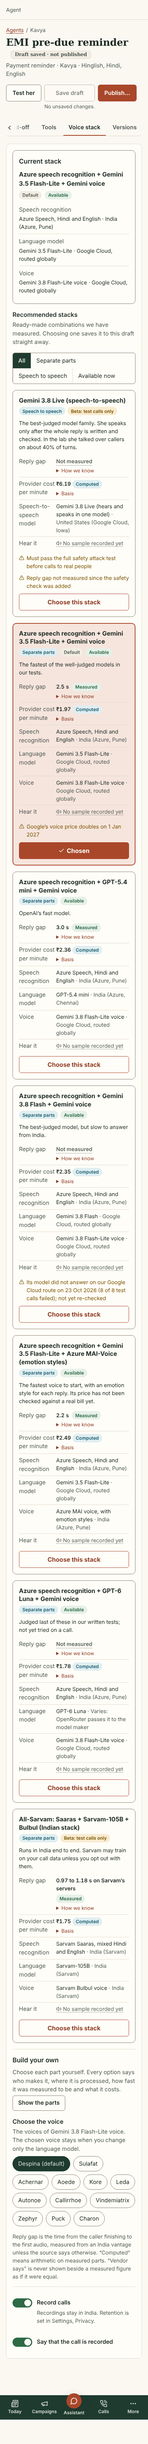
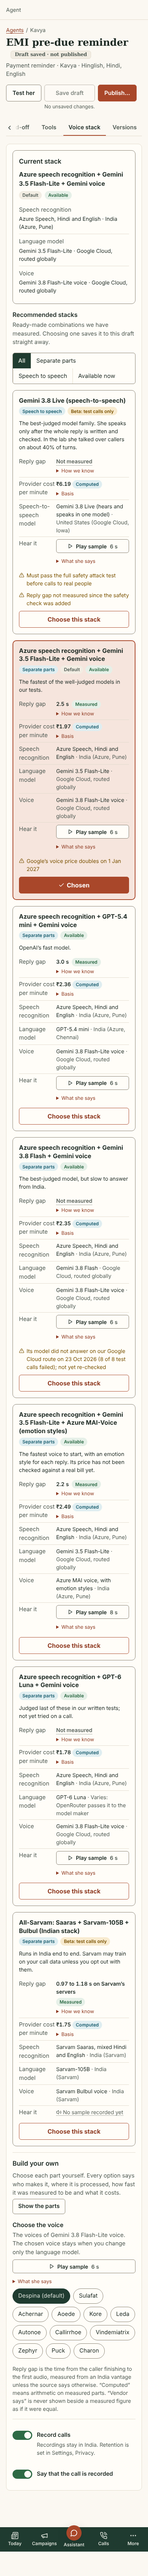
Web: voice samples with several renditions for Safari, and a plain line when none can play; web typecheck fixed
The integrator's two follow-ups on 680c5e6.

1. Safari. A manifest entry may list renditions in "files": [{src, type}], best first. "file" is still read for older
   entries.
   - The player is an <audio preload="none"> with one <source> per rendition, driven by the same aria-pressed
     Play/Pause button.
   - A browser whose canPlayType rules out every rendition shows "This browser can't play the sample" before any tap,
     and so does one where the last <source> fails.
   - Types are inferred from the extension when not given: ogg/opus is audio/ogg; codecs=opus, mp3 is audio/mpeg,
     m4a is audio/mp4, aac is audio/aac, wav is audio/wav.
   - server/app.ts serves .m4a as audio/mp4 and .aac as audio/aac (two MIME entries), ready for the AAC rendition the
     voice builder will add.
   - Tests:
     - The unit test covers multi-source parsing and that Safari can play the AAC rendition while an Ogg-only entry
       cannot.
     - The flow "Voice samples: …" has a first rendition no browser can play and checks the player falls through to
       the second.
     - The same flow checks a canPlayType of '' everywhere shows the line and no button.
     - The flow now restores whatever manifest ships, instead of asserting {}. It failed on the old player and passes
       now.
2. Looked at the stack cards with a real sample playing, at 1440 and 390: gemini-3.8-live-Despina.ogg plays, the button
   reads "Pause 6 s" and the Hindi text shows under "What she says". Shots:
[…]

Changed region(s): [[0.0308, 0.0, 0.9231, 0.9984], [0.8615, 0.9672, 0.9231, 0.9984]]

diff --git a/product/web/src/samples.ts b/product/web/src/samples.ts
@@ -3,26 +3,45 @@
 // Ogg/Opus clips). A stack with no entry (or an
 // entry that does not hold up) shows "No sample recorded yet"; nothing is guessed.
 
-export interface Sample { stackId: string; src: string; durationS: number; text: string; recorded: string }
+export interface SampleSource { src: string; type: string }
+export interface Sample { stackId: string; sources: SampleSource[]; durationS: number; text: string; recorded: string }
 
-const FILE = /^[A-Za-z0-9][A-Za-z0-9._-]{0,120}\.(ogg|opus|mp3|wav)$/;   // a plain file name in /samples/: no path, an audio format
+const FILE = /^[A-Za-z0-9][A-Za-z0-9._-]{0,120}\.(ogg|opus|mp3|m4a|aac|wav)$/;   // a plain file name in /samples/: no path, an audio format
 const WHEN = /^\d{4}-\d{2}-\d{2}(T\d{2}:\d{2}(:\d{2})?(\.\d+)?Z?)?$/;   // a date, or the renderer's UTC timestamp
+// The type the browser is asked about. Ogg/Opus has gaps on older Safari; an AAC or MP3 rendition beside it covers Macs.
+const TYPE: Record<string, string> = { ogg: 'audio/ogg; codecs=opus', opus: 'audio/ogg; codecs=opus', mp3: 'audio/mpeg', m4a: 'audio/mp4', aac: 'audio/aac', wav: 'audio/wav' };
 
-/** The manifest's entries that are safe and complete, keyed by stack id. The recording date versions the URL, because the
- *  server caches static files for a year: a re-recorded clip gets a new address. */
+/** The manifest's entries that are safe and complete, keyed by stack id. An entry lists its renditions in "files"
+ *  ([{src, type}], best first) or one "file" (kept for older manifests). The recording time versions each address, because
+ *  the server caches static files for a year: a re-recorded clip gets a new address. */
 export function parseSamples(raw: unknown): Record<string, Sample> {
   const out: Record<string, Sample> = {};
   if (!raw || typeof raw !== 'object' || Array.isArray(raw)) return out;
   for (const [stackId, v] of Object.entries(raw as Record<string, unknown>)) {
     if (!v || typeof v !== 'object') continue;
     const e = v as Record<string, unknown>;
-    const file = typeof e.file === 'string' ? e.file : '', text = typeof e.text === 'string' ? e.text.trim() : '', recorded = typeof e.recordedAt === 'string' ? e.recordedAt : typeof e.recorded === 'string' ? e.recorded : '';
+    const text = typeof e.text === 'string' ? e.text.trim() : '', recorded = typeof e.recordedAt === 'string' ? e.recordedAt : typeof e.recorded === 'string' ? e.recorded : '';
     const durationS = typeof e.durationS === 'number' ? e.durationS : typeof e.duration === 'number' ? e.duration : NaN;
-    if (!FILE.test(file) || !text || !WHEN.test(recorded) || !(durationS > 0 && durationS < 600)) continue;
-    out[stackId] = { stackId, src: `/samples/${file}?v=${encodeURIComponent(recorded)}`, durationS, text, recorded: recorded.slice(0, 10) };
+    if (!text || !WHEN.test(recorded) || !(durationS > 0 && durationS < 600)) continue;
+    const listed = Array.isArray(e.files) ? e.files : typeof e.file === 'string' ? [{ src: e.file }] : [];
+    const sources: SampleSource[] = [];
+    for (const f of listed) {
+      if (!f || typeof f !== 'object') continue;
+      const r = f as Record<string, unknown>;
+      const name = typeof r.src === 'string' ? r.src.replace(/^\/samples\//, '') : typeof r.file === 'string' ? r.file : '';
+      if (!FILE.test(name)) continue;
+      const ext = name.split('.').pop()!.toLowerCase();
+      const type = typeof r.type === 'string' && /^audio\/[a-z0-9.+-]+(;\s*codecs="?[a-z0-9.,\s-]+"?)?$/i.test(r.type) ? r.type : TYPE[ext];
+      sources.push({ src: `/samples/${name}?v=${encodeURIComponent(recorded)}`, type });
+    }
+    if (!sources.length) continue;
+    out[stackId] = { stackId, sources, durationS, text, recorded: recorded.slice(0, 10) };
   }
   return out;
 }
+
+/** Whether this browser says it may play any of the renditions ("maybe" counts; only "" rules a type out). */
+export const playableIn = (sources: SampleSource[], canPlay: (type: string) => string) => sources.some(x => canPlay(x.type) !== '');
 
 /** The manifest, read fresh (a query string skips the year-long static cache). A missing or broken manifest means no samples. */
 export async function loadSamples(): Promise<Record<string, Sample>> {

diff --git a/product/web/src/stack-picker.tsx b/product/web/src/stack-picker.tsx
@@ -2,7 +2,7 @@
 // is marked "recommended". Every figure carries its grade and source; a missing price or latency says so instead of showing 0.
 import { useEffect, useMemo, useRef, useState } from 'react';
 import { AlertTriangle, Check, Pause, Play, Volume2 } from 'lucide-react';
-import { loadSamples, type Sample } from './samples.ts';
+import { loadSamples, playableIn, type Sample } from './samples.ts';
 import { STACKS } from '../../shared/stacks.ts';
 import * as api from './api.ts';
 import { Async, Btn, Chip, Figure, NotMeasured, Segmented } from './ui.tsx';
@@ -256,25 +256,27 @@ let playing: HTMLAudioElement | null = null;
 /** A sample clip: one button that plays and pauses it (its state is announced), the length, and what she says, in words. */
 function SamplePlayer({ sample, label }: { sample: Sample; label: string }) {
   const audio = useRef<HTMLAudioElement | null>(null);
-  const [on, setOn] = useState(false); const [failed, setFailed] = useState(false);
+  const [on, setOn] = useState(false);
+  // Known before any tap: a browser that rules out every rendition says so instead of a button that does nothing.
+  const [cant, setCant] = useState(() => typeof document !== 'undefined' && !playableIn(sample.sources, t => document.createElement('audio').canPlayType(t)));
   useEffect(() => () => { audio.current?.pause(); }, []);
   const toggle = () => {
-    let a = audio.current;
-    if (!a) {
-      a = audio.current = new Audio(sample.src);
-      a.onended = a.onpause = () => setOn(false); a.onplay = () => setOn(true); a.onerror = () => { setOn(false); setFailed(true); };
-    }
+    const a = audio.current; if (!a) return;
     if (on) { a.pause(); return; }
     if (playing && playing !== a) playing.pause();
-    playing = a; void a.play().catch(() => setFailed(true));
+    playing = a; void a.play().catch(() => setCant(true));
   };
   const secs = Math.round(sample.durationS);
   return (
     <div className="sample stack-s">
-      <button type="button" className="btn btn-sm" aria-pressed={on} aria-label={`${on ? 'Pause' : 'Play'} the sample of ${label}, ${secs} seconds`} onClick={toggle}>
-        {on ? <Pause size={14} aria-hidden /> : <Play size={14} aria-hidden />}<span>{on ? 'Pause' : 'Play sample'}</span><span className="muted tnum">{secs} s</span>
-      </button>
-      {failed && <span className="small hint-bad" role="status">The sample could not be played in this browser.</span>}
+      {/* One <source> per rendition, best first: the browser takes the first it can play. The last one failing means none could. */}
+      <audio ref={audio} preload="none" onPlay={() => setOn(true)} onPause={() => setOn(false)} onEnded={() => setOn(false)}>
+        {sample.sources.map((x, i) => <source key={x.src} src={x.src} type={x.type} onError={i === sample.sources.length - 1 ? () => { setOn(false); setCant(true); } : undefined} />)}
+      </audio>
+      {cant ? <p className="small muted" role="status"><Volume2 size={14} aria-hidden style={{ verticalAlign: '-2px' }} /> This browser can't play the sample.</p>
+        : <button type="button" className="btn btn-sm" aria-pressed={on} aria-label={`${on ? 'Pause' : 'Play'} the sample of ${label}, ${secs} seconds`} onClick={toggle}>
+          {on ? <Pause size={14} aria-hidden /> : <Play size={14} aria-hidden />}<span>{on ? 'Pause' : 'Play sample'}</span><span className="muted tnum">{secs} s</span>
+        </button>}
       <details className="how"><summary>What she says</summary><p lang="hi">{sample.text}</p><p className="small muted">Recorded {sample.recorded}.</p></details>
     </div>
   );

diff --git a/product/tests/web-walkthrough2.test.ts b/product/tests/web-walkthrough2.test.ts
@@ -44,10 +44,16 @@ test('voice samples: only complete, plain-file entries are used, and the recordi
   const ok = { file: 'v2-flashlite.mp3', durationS: 11.6, text: 'Namaste Asha ji, main Riya bol rahi hoon.', recorded: '2026-10-25' };
   const got = parseSamples({ 'v2-flashlite': ok, a: { ...ok, file: '../secret.mp3' }, b: { ...ok, file: 'x.exe' }, c: { ...ok, text: ' ' }, d: { ...ok, recorded: 'yesterday' }, e: { ...ok, durationS: 0 }, f: null });
   assert.deepEqual(Object.keys(got), ['v2-flashlite']);
-  assert.equal(got['v2-flashlite'].src, '/samples/v2-flashlite.mp3?v=2026-10-25');
+  assert.deepEqual(got['v2-flashlite'].sources, [{ src: '/samples/v2-flashlite.mp3?v=2026-10-25', type: 'audio/mpeg' }]);
   assert.equal(parseSamples({ s: { ...ok, durationS: undefined, duration: 9 } }).s.durationS, 9, '"duration" is read as well as "durationS"');
   const voice = parseSamples({ 'v2-mai': { file: 'mai-flash-teo.ogg', durationS: 8.2, text: 'Namaste.', recordedAt: '2026-10-24T09:15:02Z', combinationId: 'x', voice: 'teo', tts: 'mai' } });
-  assert.equal(voice['v2-mai'].src, '/samples/mai-flash-teo.ogg?v=2026-10-24T09%3A15%3A02Z', 'the renderer\'s shape (Ogg, recordedAt) is read');
+  assert.deepEqual(voice['v2-mai'].sources, [{ src: '/samples/mai-flash-teo.ogg?v=2026-10-24T09%3A15%3A02Z', type: 'audio/ogg; codecs=opus' }], 'the renderer\'s shape (Ogg, recordedAt) is read');
   assert.equal(voice['v2-mai'].recorded, '2026-10-24');
-  assert.deepEqual(parseSamples([]), {}); assert.deepEqual(parseSamples(null), {}); assert.deepEqual(parseSamples({}), {}, 'the shipped empty manifest means no samples');
+  // Several renditions, best first, for Safari: "files" wins over "file"; a bad entry in the list is dropped, not the sample.
+  const multi = parseSamples({ s: { ...ok, file: 'old.mp3', files: [{ src: '/samples/a.ogg', type: 'audio/ogg; codecs=opus' }, { src: 'a.m4a' }, { src: '../x.mp3' }, { src: 'a.mp3', type: 'text/html' }] } }).s.sources;
+  assert.deepEqual(multi.map(x => [x.src.split('?')[0], x.type]), [['/samples/a.ogg', 'audio/ogg; codecs=opus'], ['/samples/a.m4a', 'audio/mp4'], ['/samples/a.mp3', 'audio/mpeg']]);
+  const { playableIn } = await import('../web/src/samples.ts');
+  assert.equal(playableIn(multi, t => (t.startsWith('audio/mp4') ? 'maybe' : '')), true, 'Safari: the AAC rendition plays');
+  assert.equal(playableIn(multi.slice(0, 1), t => (t.includes('ogg') ? '' : 'probably')), false, 'Ogg only on a browser without Ogg: say it cannot play');
+  assert.deepEqual(parseSamples([]), {}); assert.deepEqual(parseSamples(null), {}); assert.deepEqual(parseSamples({}), {}, 'an empty manifest means no samples');
 });

diff --git a/product/web/src/pages/insights.tsx b/product/web/src/pages/insights.tsx
@@ -42,6 +42,8 @@ function waitingText(e: ExperimentRow): string {
   return 'Ready to start. Before any caller hears the change, Vyakti checks on past calls that results are recorded evenly.';
 }
 interface MonitorInfo { monitors: { id: string; name: string; last_read_at?: string | null; config?: unknown }[]; defaults: { name: string; config: { signal: string; threshold: number; windowCalls: number; minCalls: number; severity: string; category: string } }[] }
+/** issue.detail.adoptedChange, written by learning when a change for this issue is adopted (detail is untyped JSON). */
+const adoptedOf = (d: unknown) => (d && typeof d === 'object' ? (d as { adoptedChange?: { at?: string; change?: string } }).adoptedChange : undefined);
 const detailText = (d: unknown): string => (typeof d === 'string' ? d : d && typeof d === 'object' ? ((d as any).message ?? (d as any).summary ?? (d as any).reason ?? JSON.stringify(d)) : '');
 
 export default function Insights() {
@@ -75,7 +77,7 @@ export default function Insights() {
             {d => <ul className="issues">{d.issues.map(i => (
               <li key={i.id}><div className="row"><Chip tone={i.severity === 'critical' ? 'brick' : i.severity === 'warning' ? 'marigold' : 'neutral'} icon={<AlertTriangle size={12} aria-hidden />}>{prettyCode(i.severity)}</Chip><span className="small muted">first seen {ago(i.created_at)}</span></div>
                 <h3>{prettyCode(i.category)}</h3><p className="small">{issueText(i.detail)}</p>
-                {i.detail?.adoptedChange?.at && <p className="small" role="status">A change was adopted for this on {date(i.detail.adoptedChange.at)} ({i.detail.adoptedChange.change}). It closes by itself once the calls since it opened are back under the threshold.</p>}
+                {adoptedOf(i.detail)?.at && <p className="small" role="status">A change was adopted for this on {date(adoptedOf(i.detail)!.at!)} ({adoptedOf(i.detail)!.change}). It closes by itself once the calls since it opened are back under the threshold.</p>}
                 <div><Btn size="sm" onClick={() => say(`Issue ${i.category}: ${issueText(i.detail)} What should I change? Prepare it as a change I can accept.`)}>Ask the assistant what to change</Btn></div></li>))}</ul>}</Async></Card>
 
         <Card aria-labelledby="mo-h"><CardHead id="mo-h" title="What is being watched" sub="A monitor that has not read any calls yet is shown as not read, never as all good." />

diff --git a/product/server/app.ts b/product/server/app.ts
@@ -51,7 +51,7 @@ const LOGIN_FAILS_PER_ACCOUNT = 10;
 const LOGIN_PER_IP = 50;
 
 const MIME: Record<string, string> = { '.html': 'text/html; charset=utf-8', '.js': 'text/javascript; charset=utf-8', '.css': 'text/css; charset=utf-8',
-  '.svg': 'image/svg+xml', '.png': 'image/png', '.woff2': 'font/woff2', '.json': 'application/json', '.wav': 'audio/wav', '.mp3': 'audio/mpeg', '.ogg': 'audio/ogg', '.opus': 'audio/ogg' };
+  '.svg': 'image/svg+xml', '.png': 'image/png', '.woff2': 'font/woff2', '.json': 'application/json', '.wav': 'audio/wav', '.mp3': 'audio/mpeg', '.ogg': 'audio/ogg', '.opus': 'audio/ogg', '.m4a': 'audio/mp4', '.aac': 'audio/aac' };
 
 export function buildApp(pool: pg.Pool, modules: Module[], opts: { webRoot?: string } = {}): { router: Router; registry: Registry; server: Server; deps: Deps; jobs: Job[] } {
   const registry = new Registry();
